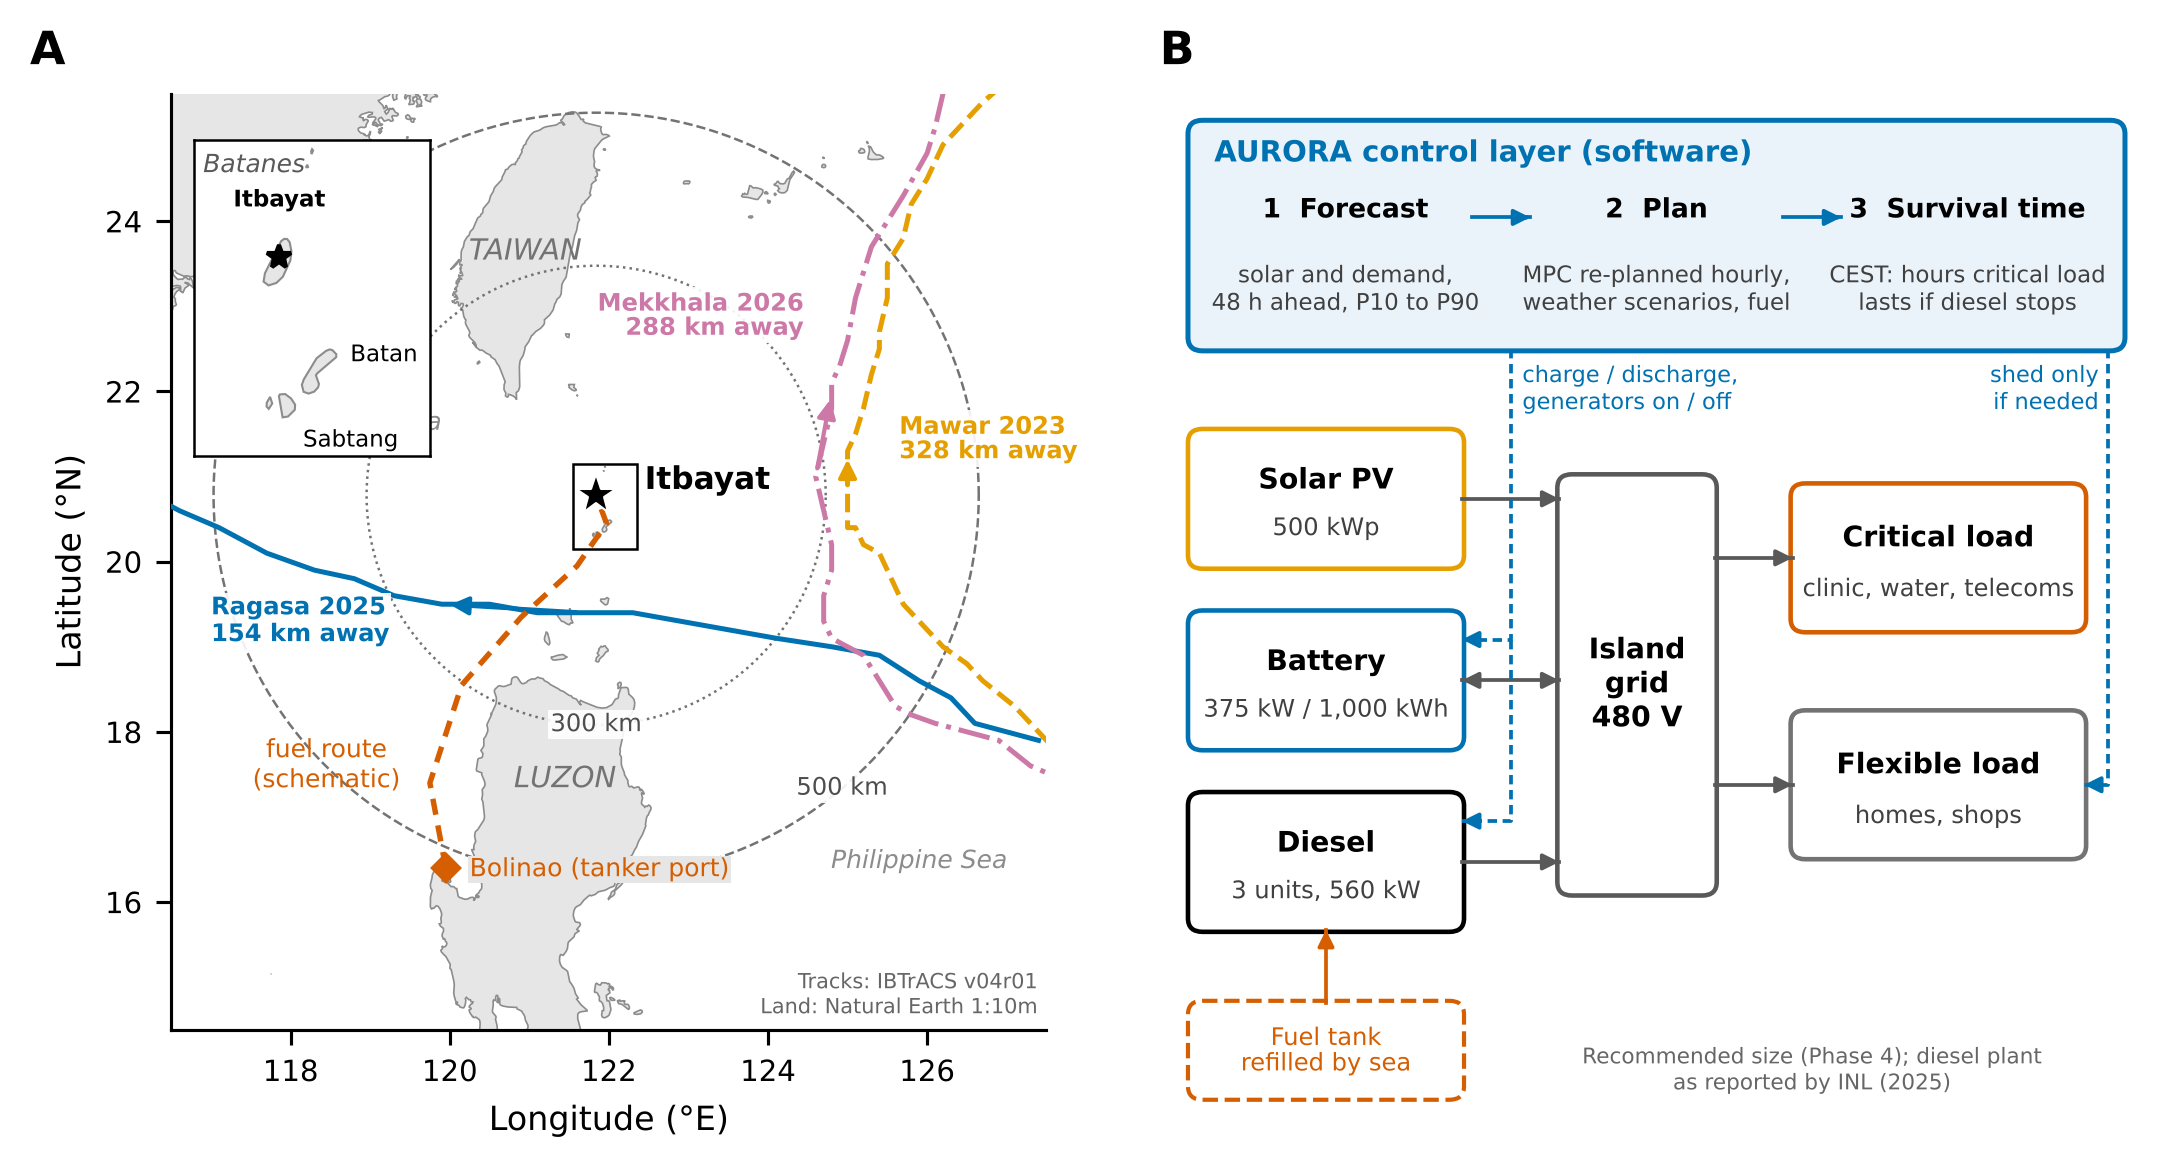
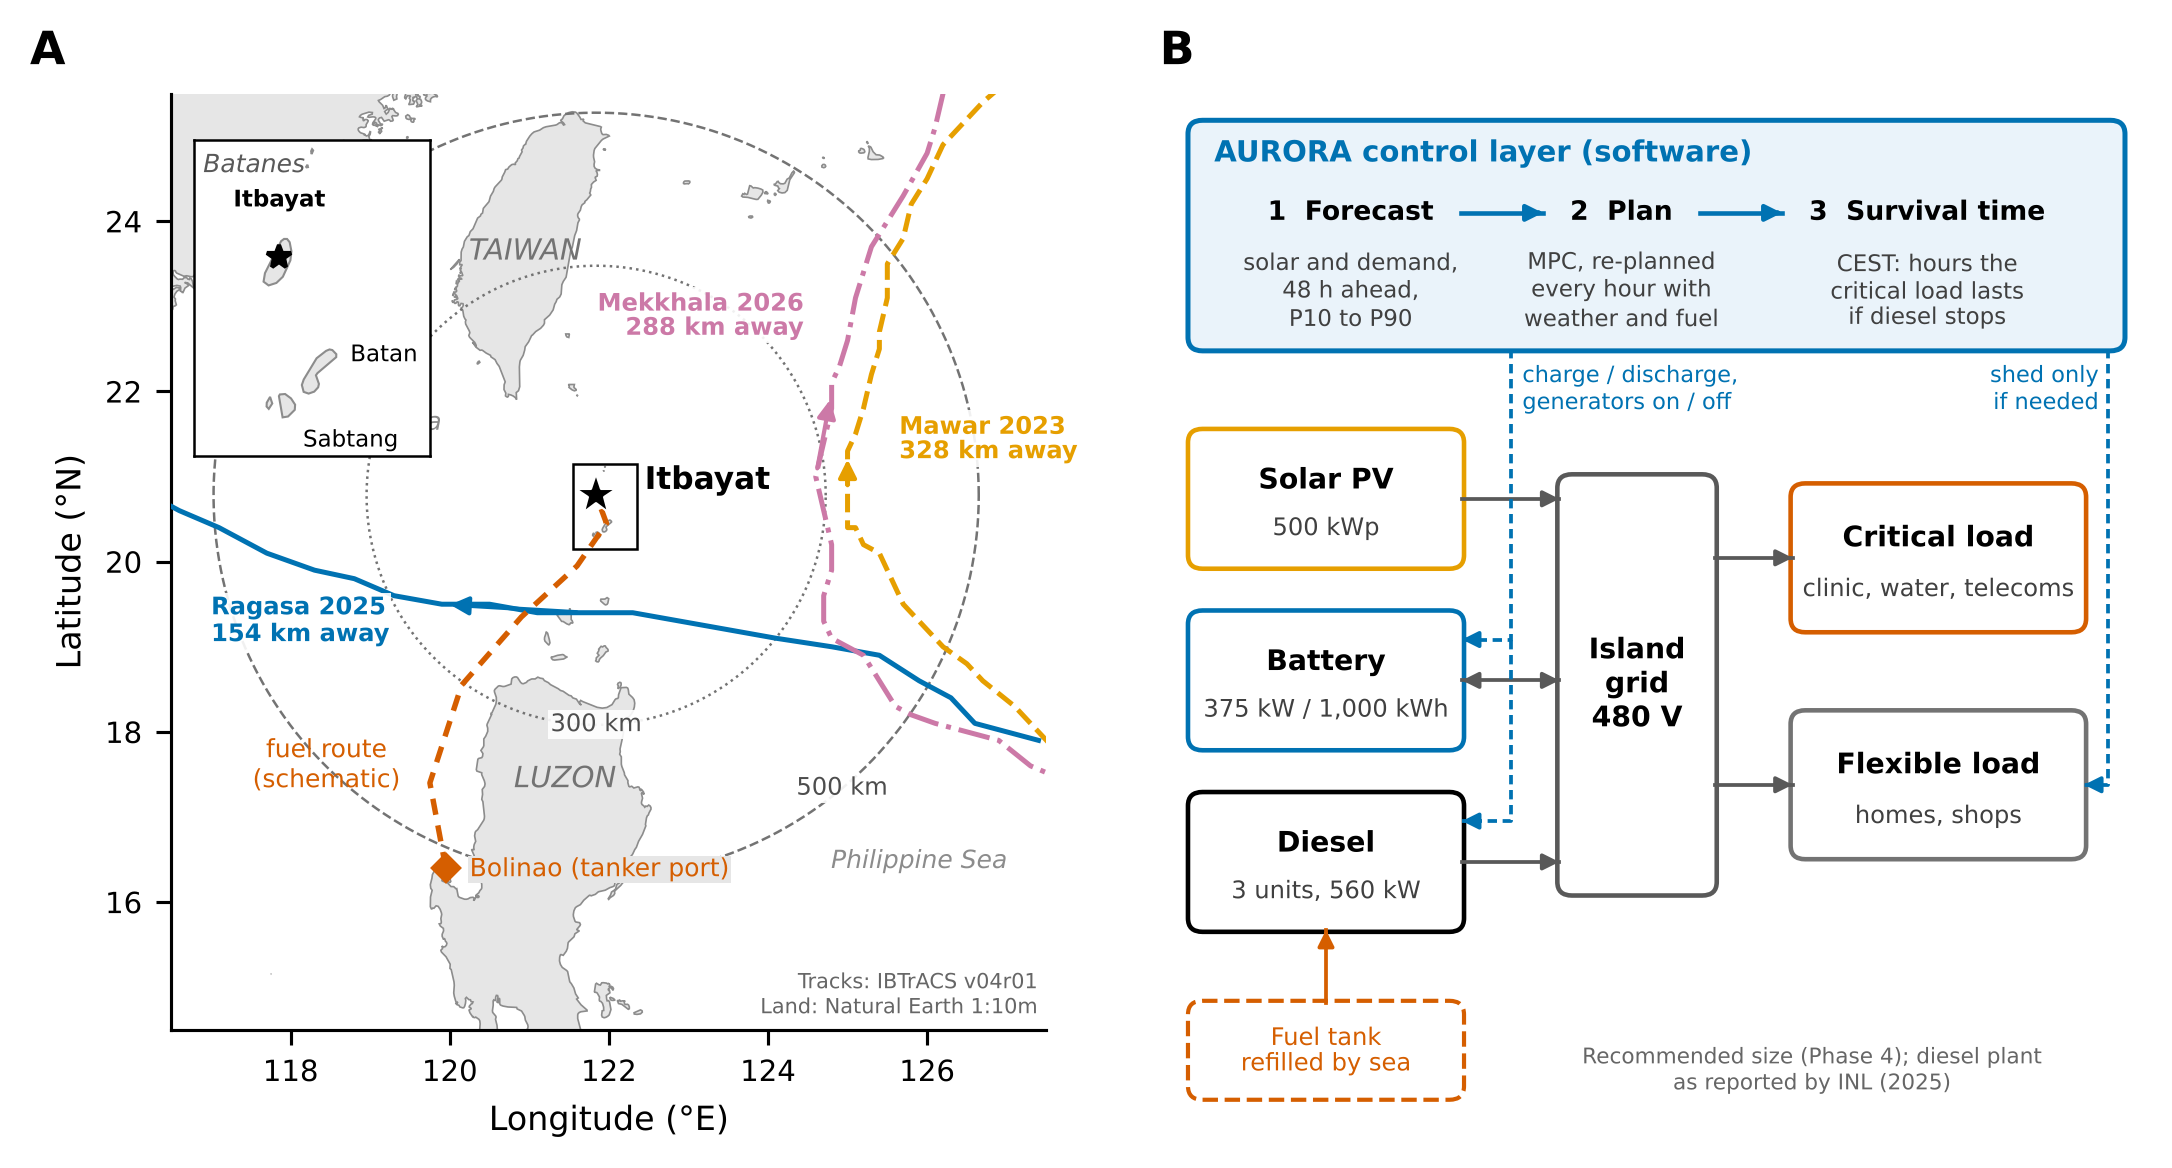
Figure a: control-layer steps with equal gaps, equal centred arrows and centred descriptions

Changed region(s): [[0.5552, 0.1541, 0.9563, 0.2774], [0.5861, 0.1541, 0.7095, 0.1849]]

diff --git a/aurora/plotting/phase5.py b/aurora/plotting/phase5.py
@@ -176,14 +176,26 @@ def fig_a_site_system():
     bx.add_patch(FancyBboxPatch((0.2, 7.4), 9.6, 2.5, boxstyle="round,pad=0.02,rounding_size=0.15", fc="#EAF3FA",
                                 ec=OI["blue"], lw=1.2))
     bx.text(0.45, 9.55, "AURORA control layer (software)", fontsize=7, fontweight="bold", color=OI["blue"], va="center")
-    for i_, (ttl, sub) in enumerate((("1  Forecast", "solar and demand,\n48 h ahead, P10 to P90"),
-                                     ("2  Plan", "MPC re-planned hourly,\nweather scenarios, fuel"),
-                                     ("3  Survival time", "CEST: hours critical load\nlasts if diesel stops"))):
-        x_ = 0.35 + i_ * 3.2
-        bx.text(x_ + 1.45, 8.85, ttl, ha="center", fontsize=6.4, fontweight="bold")
-        bx.text(x_ + 1.45, 8.05, sub, ha="center", fontsize=5.5, color="0.25", va="center")
-        if i_ < 2:
-            line([(x_ + 2.75, 8.85), (x_ + 3.35, 8.85)], c=OI["blue"])
+    # three equal columns; arrows centred in the gap between the step titles, measured after drawing
+    cols = (("1  Forecast", "solar and demand,\n48 h ahead,\nP10 to P90"),
+            ("2  Plan", "MPC, re-planned\nevery hour with\nweather and fuel"),
+            ("3  Survival time", "CEST: hours the\ncritical load lasts\nif diesel stops"))
+    t_y, s_y = 8.9, 8.05
+    titles = [bx.text(0, t_y, ttl, ha="left", va="center", fontsize=6.4, fontweight="bold") for ttl, _ in cols]
+    fig.canvas.draw()
+    inv = bx.transData.inverted()
+    wid = [np.diff(inv.transform(t_.get_window_extent())[:, 0])[0] for t_ in titles]
+    left, right = 1.0, 9.0                                   # titles spread with equal gaps, group centred
+    gap = (right - left - sum(wid)) / 2
+    x_ = left
+    for t_, w_, (_, sub) in zip(titles, wid, cols):
+        t_.set_x(x_)
+        bx.text(x_ + w_ / 2, s_y, sub, ha="center", va="center", fontsize=5.5, color="0.25", linespacing=1.2,
+                multialignment="center")
+        if t_ is not titles[-1]:
+            xm = x_ + w_ + gap / 2
+            line([(xm - 0.3 * gap, t_y), (xm + 0.3 * gap, t_y)], c=OI["blue"], lw=1.1)
+        x_ += w_ + gap
     # power sources, bus, loads
     box(0.2, 5.0, 2.8, 1.5, "Solar PV", "500 kWp", OI["orange"])
     box(0.2, 3.0, 2.8, 1.5, "Battery", "375 kW / 1,000 kWh", OI["blue"])
